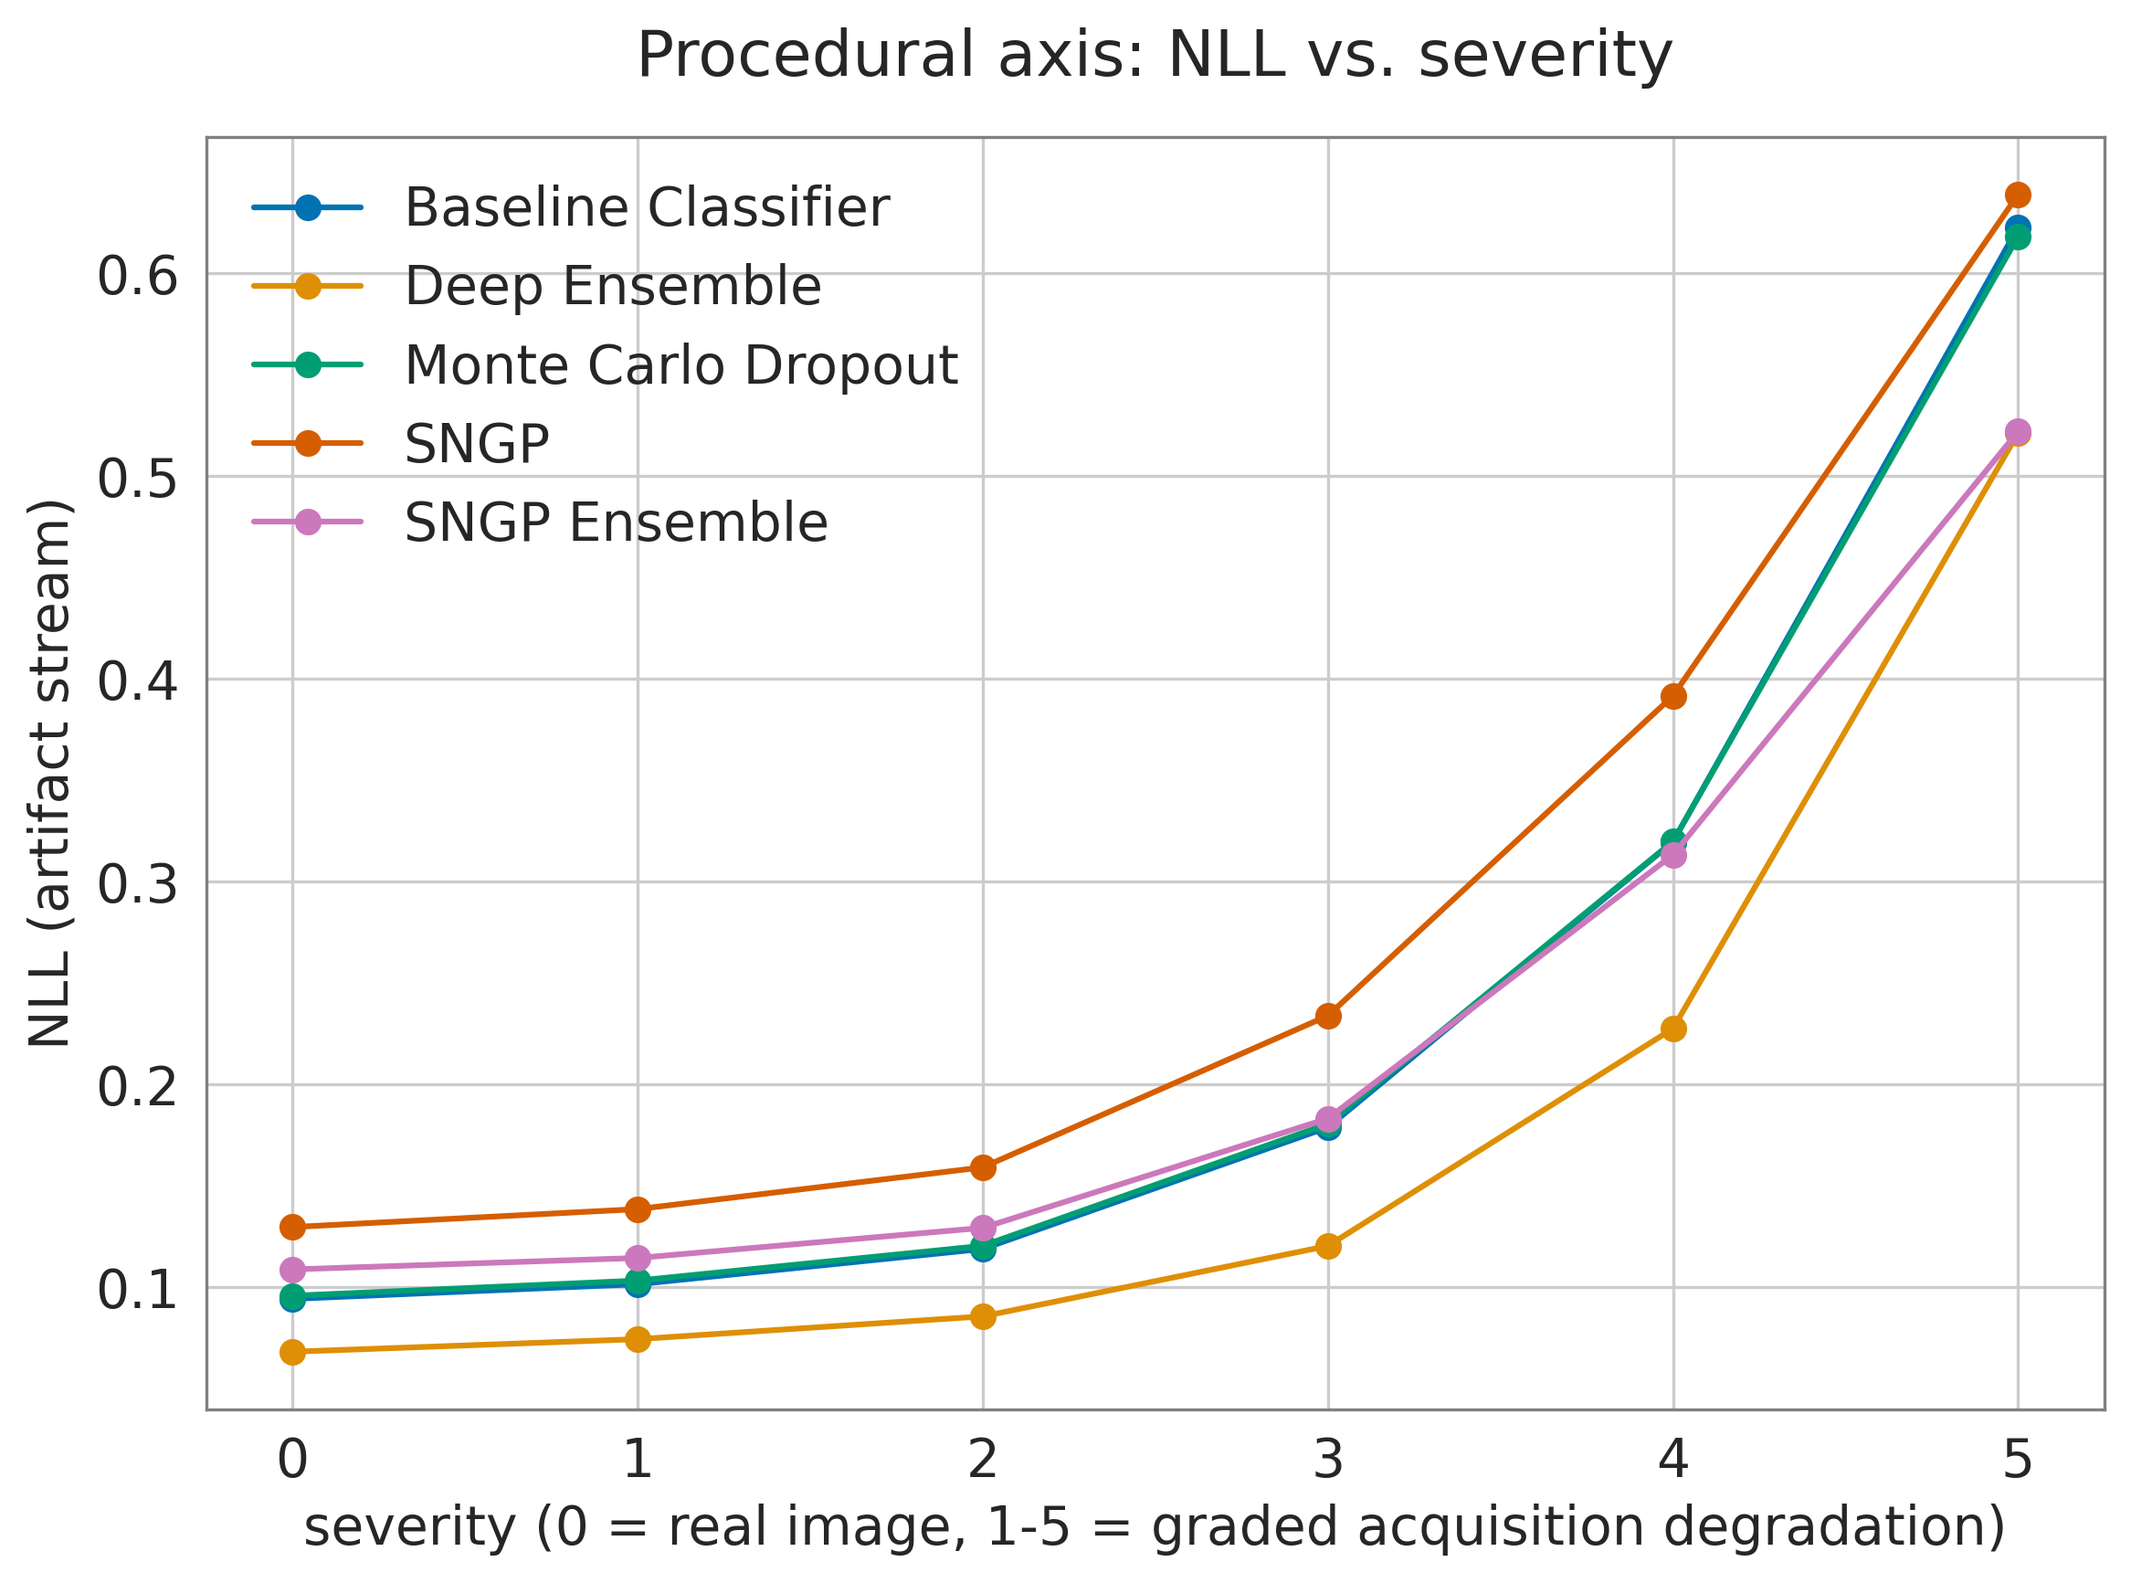
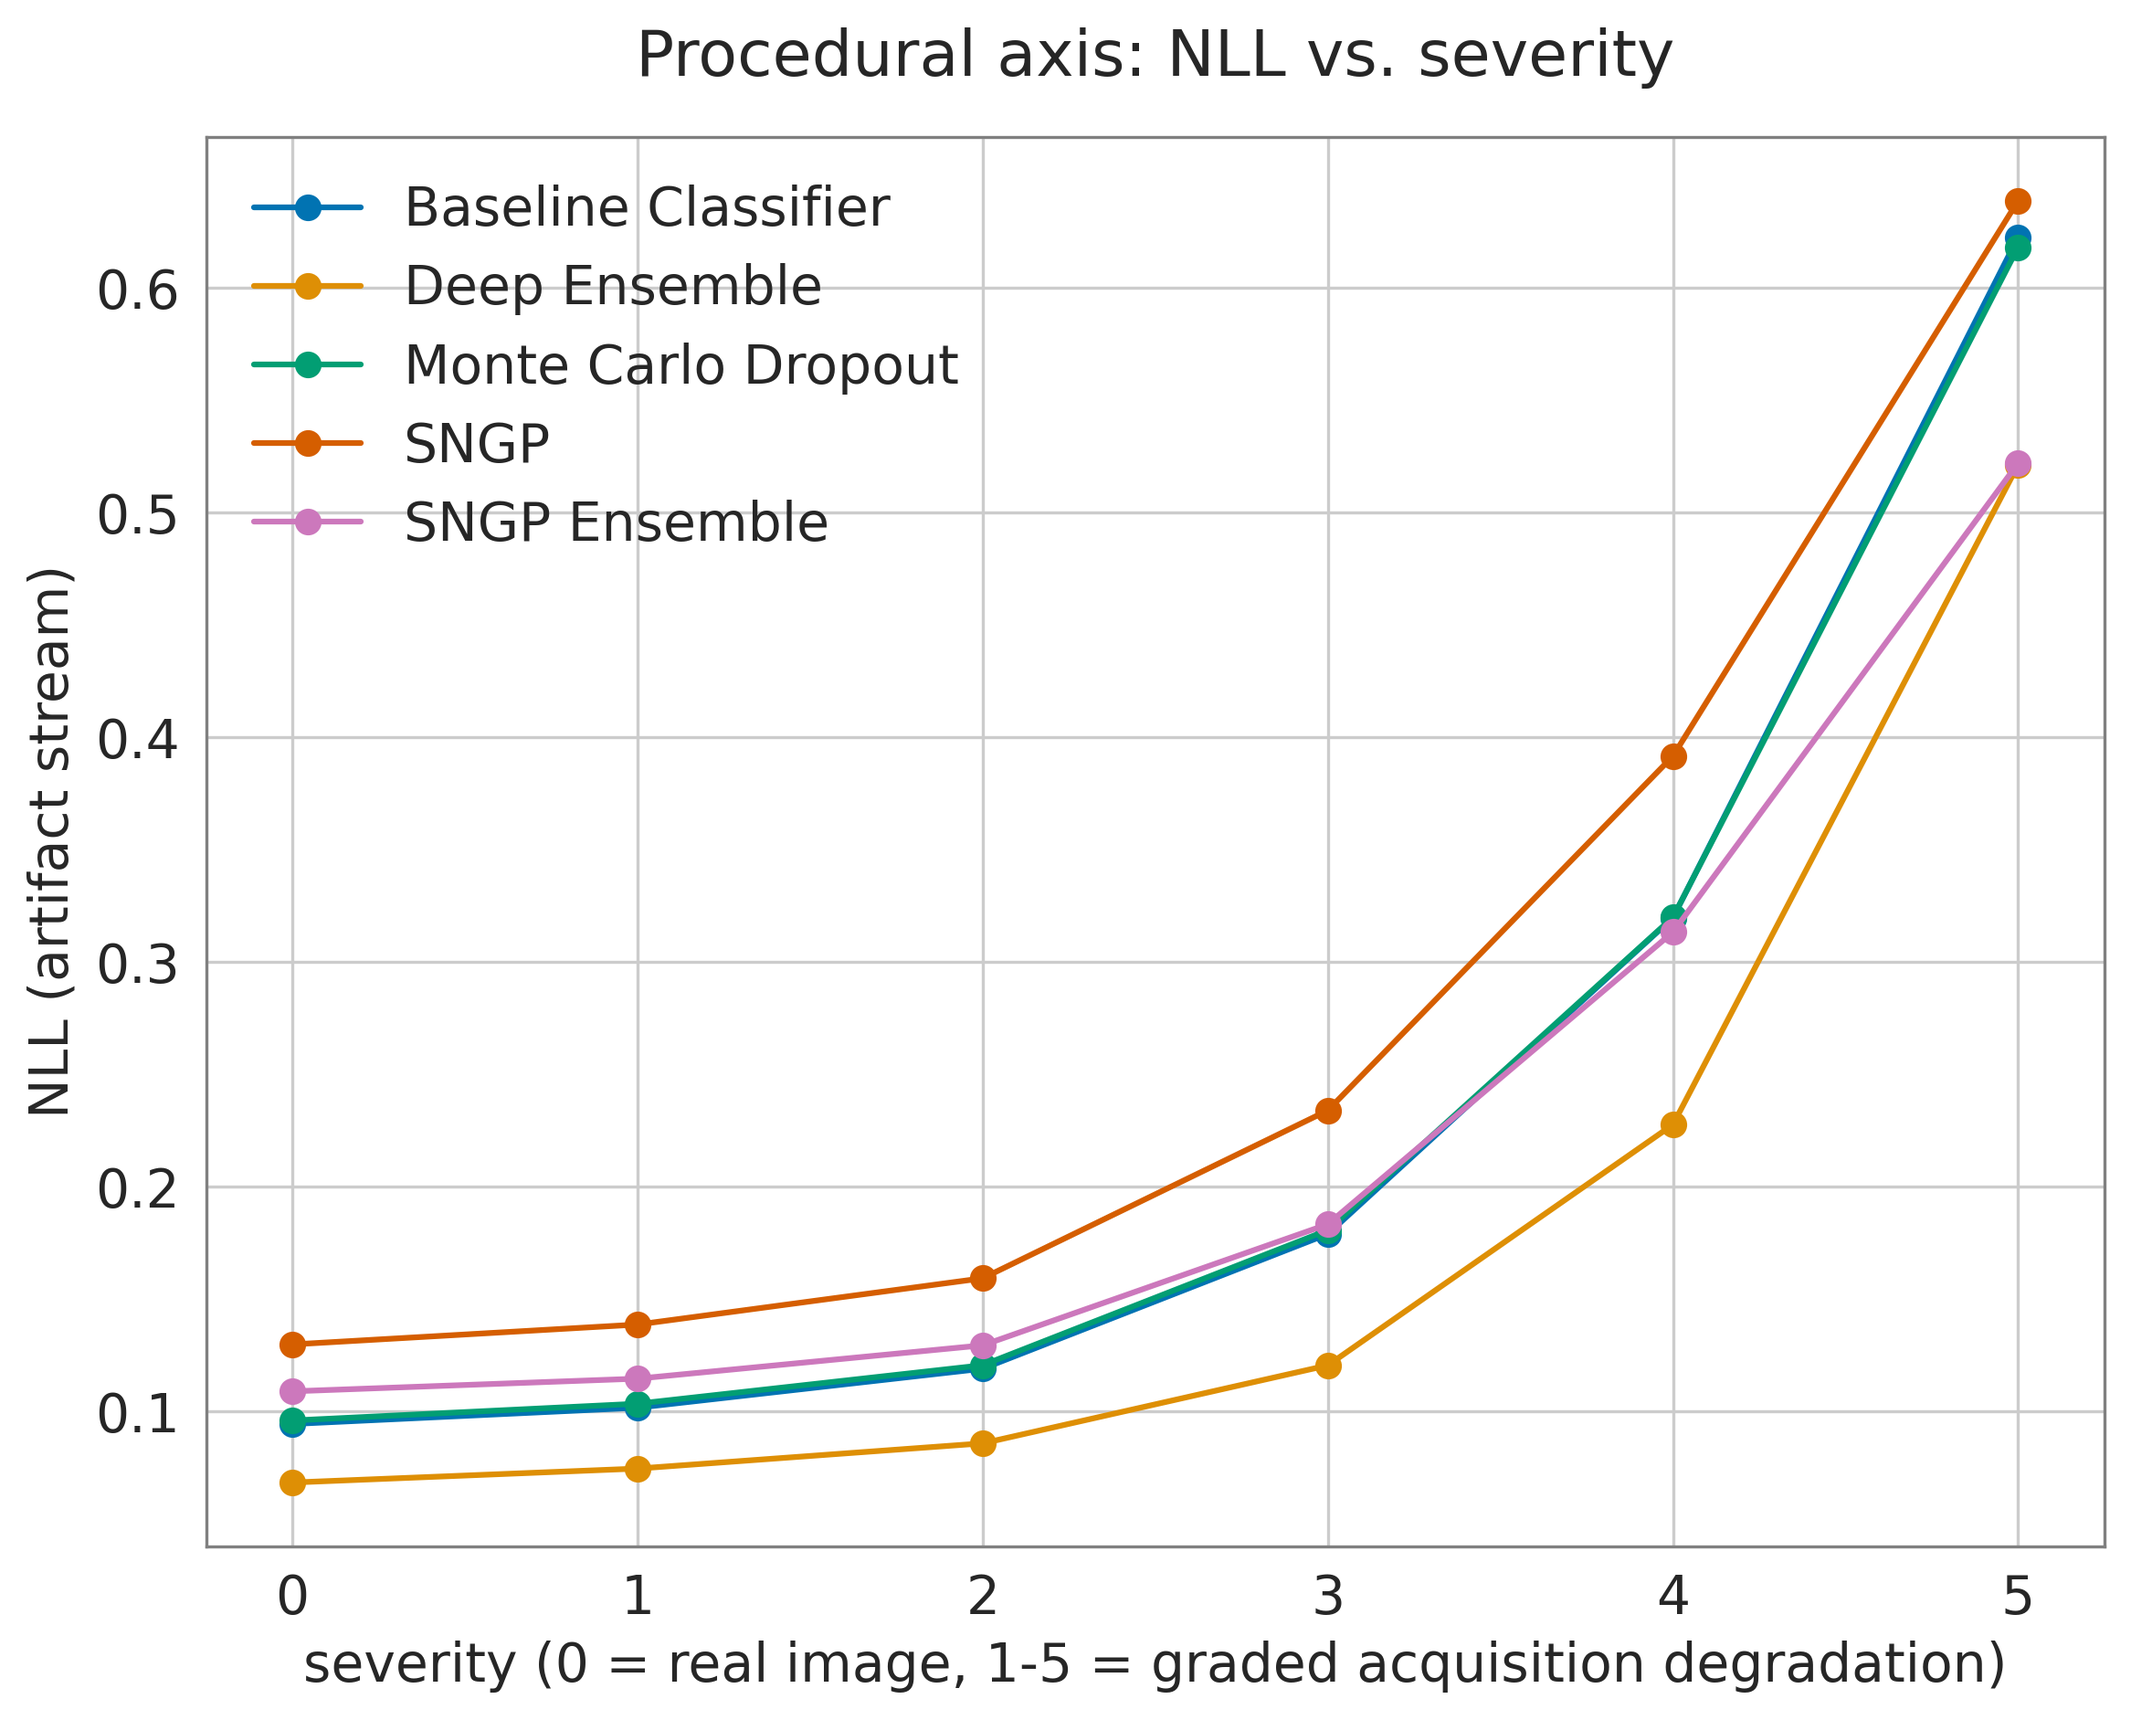
fix(artifact-sim): match figsize between the two ablation figures
They rendered at different heights side by side in docs/RESULTS.md's equal-width
table since the two plots used different figsize/aspect ratios.

diff --git a/src/visualization/artifact_ablation_curves.py b/src/visualization/artifact_ablation_curves.py
@@ -135,7 +135,7 @@ def plot_config_axis(nll_df: pd.DataFrame, coverage_df: pd.DataFrame, save_dir: 
 
 def plot_procedural_axis(nll_df: pd.DataFrame, save_dir: Path) -> None:
     set_default_style()
-    fig, ax = plt.subplots(figsize=(8, 6))
+    fig, ax = plt.subplots(figsize=(8, 6.5))
     for model in MODEL_ROW_ORDER:
         sub = nll_df[nll_df["model"] == model].sort_values("n")
         ax.plot(sub["n"], sub["artifact_nll"], marker="o", label=model, color=MODEL_COLORS[model])
